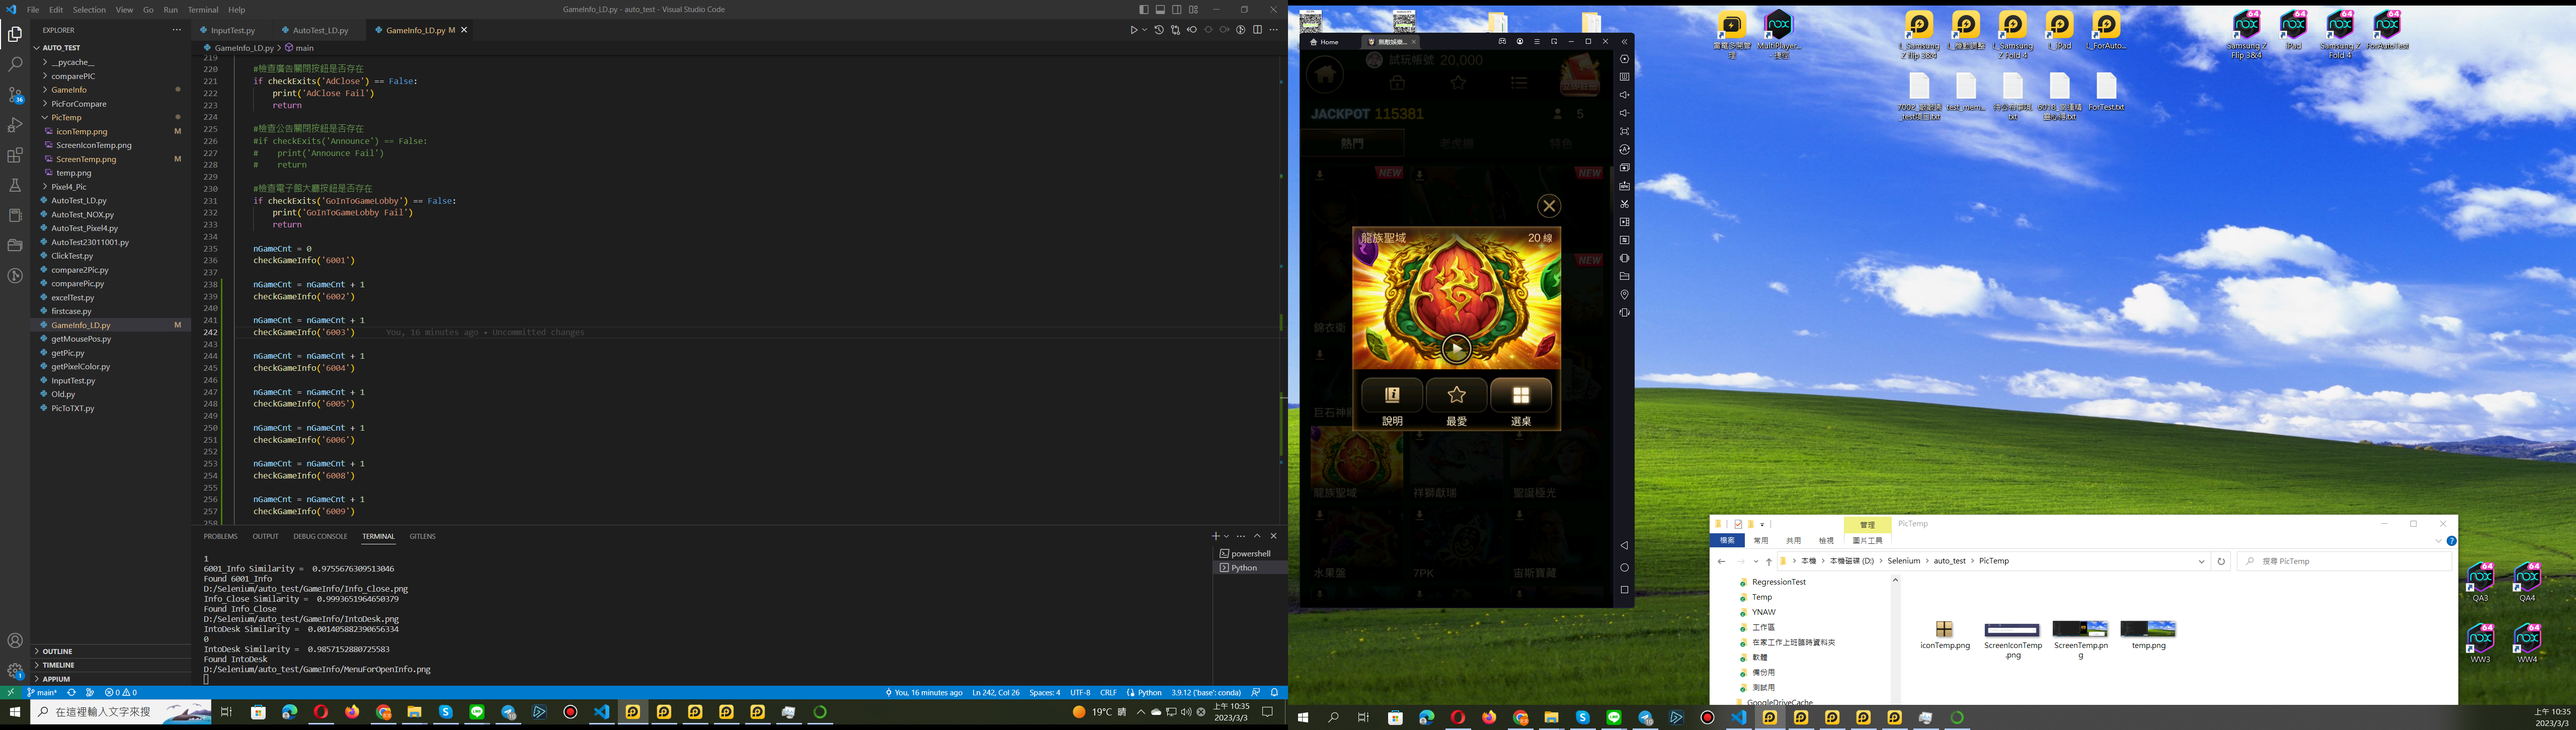
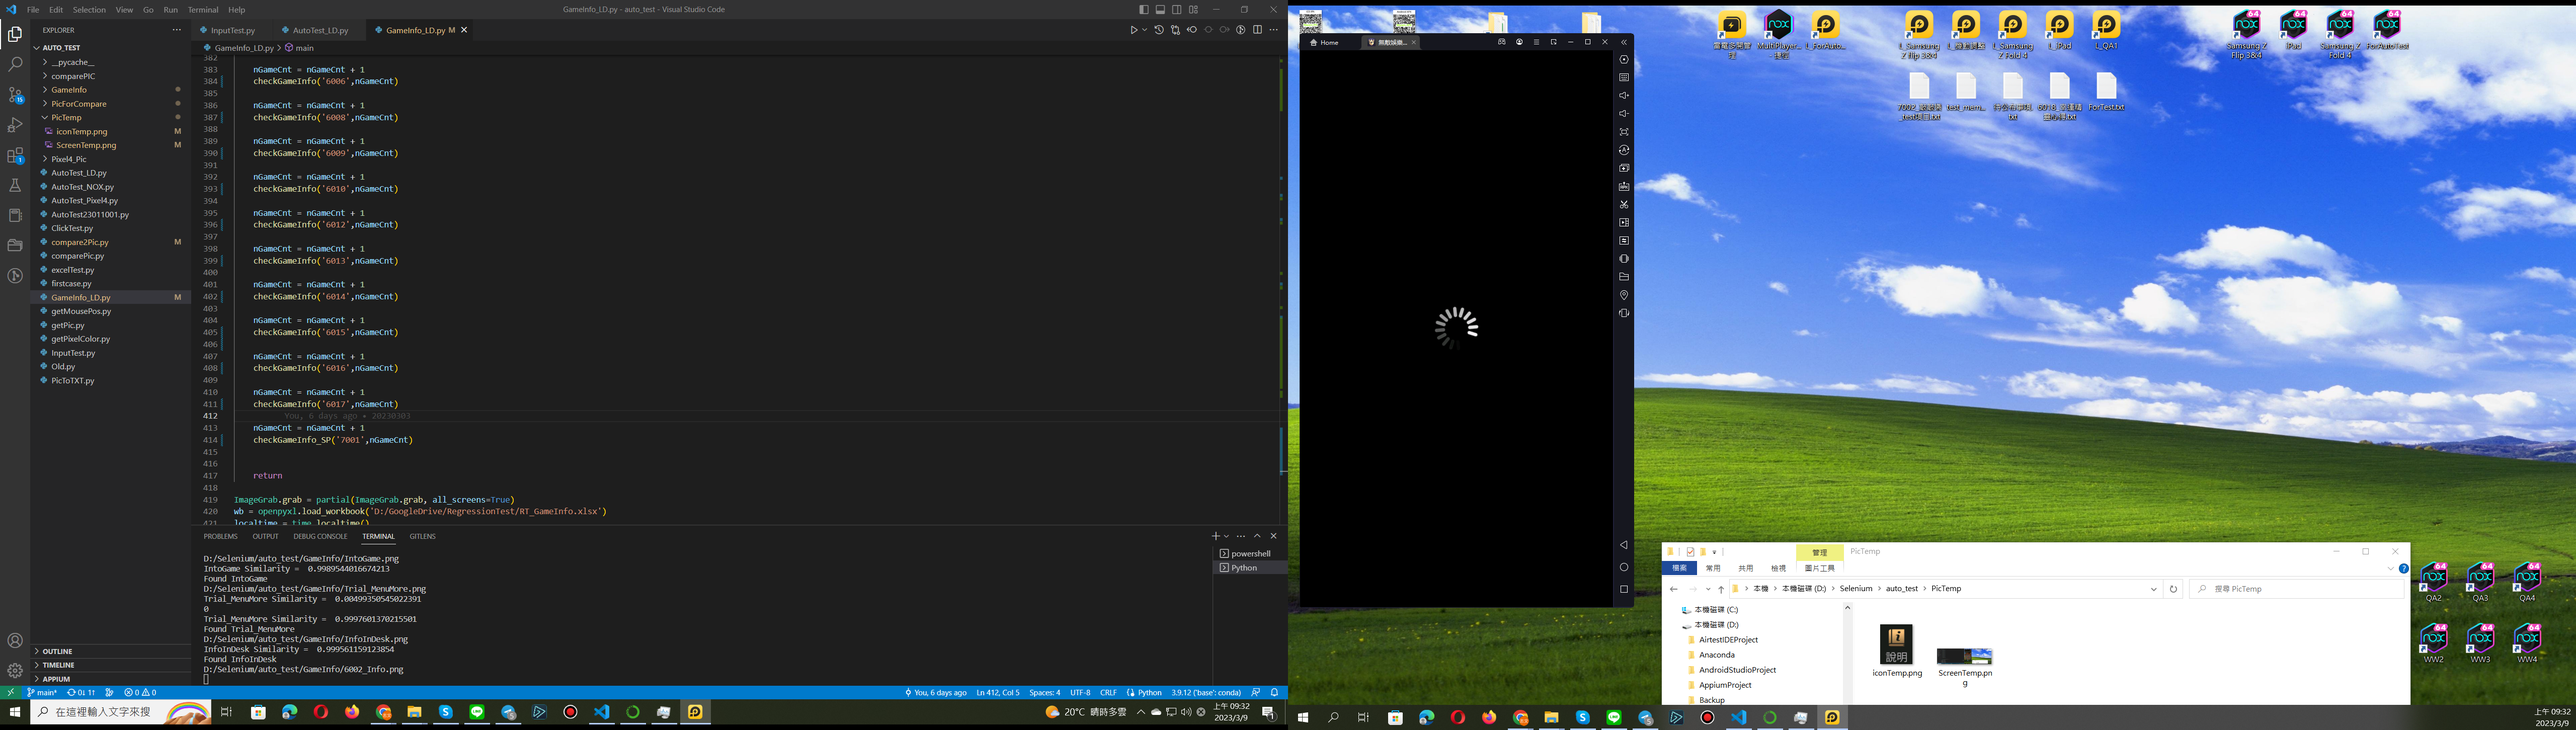
2023030901

diff --git a/GameInfo_LD.py b/GameInfo_LD.py
@@ -3,6 +3,7 @@ import pyscreenshot as ImageGrab
 import time
 from PIL import ImageGrab
 from functools import partial
+from PIL import Image
 
 import openpyxl
 from openpyxl.styles import Font, PatternFill       # 載入 Font 和 PatternFill 模組
@@ -11,7 +12,47 @@ import datetime
 import cv2
 import numpy as np
 from matplotlib import pyplot as plt
+import imagehash
+nGameCnt = 0
 
+def checkInfo(PicName, Times = 15):
+    nCheckTimes = 0
+    iconAppCheck = False
+    PicNamePath = 'D:/Selenium/auto_test/GameInfo/' + PicName + '.png'
+    imgIcon = cv2.imread(PicNamePath)
+    print(PicNamePath)
+    iconW = imgIcon.shape[1]
+    iconH = imgIcon.shape[0]
+
+    while iconAppCheck == False:
+        screen = pyautogui.screenshot()
+        screen.save("D:/Selenium/auto_test/PicTemp/ScreenTemp.png")
+        screen = cv2.imread("D:/Selenium/auto_test/PicTemp/ScreenTemp.png")
+        res = cv2.matchTemplate(screen,imgIcon,1)
+        min_val, max_val, min_loc, max_loc = cv2.minMaxLoc(res)
+        #print(min_val, max_val, min_loc, max_loc)
+        top_left = min_loc
+        #print(top_left)
+
+        bottom_right = (top_left[0] + iconW, top_left[1] + iconH)
+        imgscreenIcon = ImageGrab.grab(bbox=(top_left[0], top_left[1], bottom_right[0], bottom_right[1]))
+        #存檔確認比對圖案是否正確,此問題待解，希望可以不要再存檔重新讀取
+        PicIconTempName = "D:/Selenium/auto_test/PicTemp/iconTemp.png"
+        imgscreenIcon.save(PicIconTempName)
+
+        hash1 = imagehash.average_hash(Image.open(PicNamePath))
+        hash2 = imagehash.average_hash(Image.open(PicIconTempName))
+
+        if hash1 == hash2:
+            iconAppCheck = True
+        else:
+            print(nCheckTimes)
+            nCheckTimes = nCheckTimes + 1
+            time.sleep(1)
+            if nCheckTimes >= Times:
+                print('compare over times ' + PicName)
+                return False
+    return True
 
 def checkExits(PicName,bClickIconFound = True, Times = 15, findGameIcon = False):
     nCheckTimes = 0
@@ -78,7 +119,7 @@ def checkExits(PicName,bClickIconFound = True, Times = 15, findGameIcon = False)
                 return False
     return True
 
-def checkGameInfo(GameName):
+def checkGameInfo(GameName,WritePos):
     #檢查是否到遊戲館大廳
     if checkExits('Trial_MenuMore',False) == False:
         print('Trial_MenuMore Fail')
@@ -94,8 +135,12 @@ def checkGameInfo(GameName):
 
     #檢查說明頁面是否正確
     InfoGameName = GameName + '_Info'
-    if checkExits(InfoGameName,False) == False:
+    if checkInfo(InfoGameName,10) == False:
+        sheet.cell(WritePos + 2,2).value = "X"
         print(InfoGameName + ' Fail')
+    else:
+        sheet.cell(WritePos + 2,2).value = "OK"
+        print("Found Info")
 
     #檢查進入關閉說明按鈕是否存在
     if checkExits('Info_Close') == False:
@@ -114,8 +159,12 @@ def checkGameInfo(GameName):
         print('InfoInDesk Fail')
 
     #檢查說明頁面是否正確
-    if checkExits(InfoGameName,False) == False:
+    if checkInfo(InfoGameName,10) == False:
+        sheet.cell(WritePos + 2,3).value = "X"
         print(InfoGameName + ' Fail')
+    else:
+        sheet.cell(WritePos + 2,3).value = "OK"
+        print("Found Info")
 
     #檢查進入關閉說明按鈕是否存在
     if checkExits('Info_Close') == False:
@@ -164,6 +213,7 @@ def checkGameInfo(GameName):
         pyautogui.mouseUp(2850,413)
         LoopNum = LoopNum + 1
 
+    time.sleep(2)
     #檢查進入開啟選單按鈕是否存在
     if checkExits('Trial_MenuMore') == False:
         print('Trial_MenuMore Fail')
@@ -173,8 +223,12 @@ def checkGameInfo(GameName):
         print('InfoInDesk Fail')
 
     #檢查說明頁面是否正確
-    if checkExits(InfoGameName,False) == False:
+    if checkInfo(InfoGameName,10) == False:
+        sheet.cell(WritePos + 2,4).value = "X"
         print(InfoGameName + ' Fail')
+    else:
+        sheet.cell(WritePos + 2,4).value = "OK"
+        print("Found Info")
 
     #檢查進入關閉說明按鈕是否存在
     if checkExits('Info_Close') == False:
@@ -192,6 +246,8 @@ def checkGameInfo(GameName):
     if checkExits('BackToUpLevel') == False:
         print('BackToUpLevel Fail')
 
+    sheet.cell(WritePos + 2,1).value = GameName
+    wb.save("D:/GoogleDrive/RegressionTest/RT_GameInfo.xlsx")
 
 
     #檢查是否到遊戲館大廳
@@ -200,8 +256,85 @@ def checkGameInfo(GameName):
 
 
     return True
+
+
+def checkGameInfo_SP(GameName,WritePos):
+    #檢查是否到遊戲館大廳
+    if checkExits('Trial_MenuMore',False) == False:
+        print('Trial_MenuMore Fail')
     
+    time.sleep(1)
+    #檢查 game Icon是否存在
+    if checkExits(GameName,True,20,True) == False:
+        print(GameName + ' check Fail')
+
+    #檢查進入說明按鈕是否存在
+    if checkExits('InfoBook') == False:
+        print('InfoBook Fail')
+
+    #檢查說明頁面是否正確
+    InfoGameName = GameName + '_Info'
+    if checkInfo(InfoGameName,10) == False:
+        sheet.cell(WritePos + 2,2).value = "X"
+        print(InfoGameName + ' Fail')
+    else:
+        sheet.cell(WritePos + 2,2).value = "OK"
+        print("Found Info")
+
+    #檢查進入關閉說明按鈕是否存在
+    if checkExits('Info_Close') == False:
+        print('Info_Close Fail')
+
+    #檢查進入遊戲按鈕是否存在
+    if checkExits('Into7001') == False:
+        print('Into7001 Fail')
+
+    sheet.cell(WritePos + 2,3).value = "Other"
+
+    #很奇怪，會判斷錯誤，只好先sleep 5 秒
+    time.sleep(5)
+
+    #檢查進入是否進入遊戲
+    if checkExits('checkInGame',False) == False:
+        print('checkInGame Fail')
+
+    #檢查進入開啟選單按鈕是否存在
+    if checkExits('Trial_MenuMore') == False:
+        print('Trial_MenuMore Fail')
+
+    #檢查進入說明按鈕是否存在
+    if checkExits('InfoInDesk') == False:
+        print('InfoInDesk Fail')
+
+    #檢查說明頁面是否正確
+    if checkInfo(InfoGameName,10) == False:
+        sheet.cell(WritePos + 2,4).value = "X"
+        print(InfoGameName + ' Fail')
+    else:
+        sheet.cell(WritePos + 2,4).value = "OK"
+        print("Found Info")
+
+    #檢查進入關閉說明按鈕是否存在
+    if checkExits('Info_Close') == False:
+        print('Info_Close Fail')
+
+    #檢查進入上一頁按鈕是否存在
+    if checkExits('BackToUpLevel') == False:
+        print('BackToUpLevel Fail')
+
+    sheet.cell(WritePos + 2,1).value = GameName
+    wb.save("D:/GoogleDrive/RegressionTest/RT_GameInfo.xlsx")
+
+    return True
+   
 def main():
+
+    sheet.cell(1,1).value = "Game"
+    sheet.cell(1,2).value = "Lobby"
+    sheet.cell(1,3).value = "Desk"
+    sheet.cell(1,4).value = "Game"
+
+    wb.save("D:/GoogleDrive/RegressionTest/RT_GameInfo.xlsx")
 
     #雷電 L_ForAutoTest
     pyautogui.moveTo(4191,46,0.5)
@@ -233,52 +366,52 @@ def main():
         return
 
     nGameCnt = 0
-    checkGameInfo('6001')
-
-    nGameCnt = nGameCnt + 1
-    checkGameInfo('6002')
-
-    nGameCnt = nGameCnt + 1
-    checkGameInfo('6003')
-
-    nGameCnt = nGameCnt + 1
-    checkGameInfo('6004')
-
-    nGameCnt = nGameCnt + 1
-    checkGameInfo('6005')
-
-    nGameCnt = nGameCnt + 1
-    checkGameInfo('6006')
-
-    nGameCnt = nGameCnt + 1
-    checkGameInfo('6008')
+    checkGameInfo('6001',nGameCnt)
     
     nGameCnt = nGameCnt + 1
-    checkGameInfo('6009')
+    checkGameInfo('6002',nGameCnt)
 
     nGameCnt = nGameCnt + 1
-    checkGameInfo('6010')
+    checkGameInfo('6003',nGameCnt)
+
+    nGameCnt = nGameCnt + 1
+    checkGameInfo('6004',nGameCnt)
+
+    nGameCnt = nGameCnt + 1
+    checkGameInfo('6005',nGameCnt)
+
+    nGameCnt = nGameCnt + 1
+    checkGameInfo('6006',nGameCnt)
+
+    nGameCnt = nGameCnt + 1
+    checkGameInfo('6008',nGameCnt)
     
     nGameCnt = nGameCnt + 1
-    checkGameInfo('6012')
+    checkGameInfo('6009',nGameCnt)
 
     nGameCnt = nGameCnt + 1
-    checkGameInfo('6013')
-
-    nGameCnt = nGameCnt + 1
-    checkGameInfo('6014')
-
-    nGameCnt = nGameCnt + 1
-    checkGameInfo('6015')
-
-    nGameCnt = nGameCnt + 1
-    checkGameInfo('6016')
+    checkGameInfo('6010',nGameCnt)
     
     nGameCnt = nGameCnt + 1
-    checkGameInfo('6017')
+    checkGameInfo('6012',nGameCnt)
+
+    nGameCnt = nGameCnt + 1
+    checkGameInfo('6013',nGameCnt)
+
+    nGameCnt = nGameCnt + 1
+    checkGameInfo('6014',nGameCnt)
+
+    nGameCnt = nGameCnt + 1
+    checkGameInfo('6015',nGameCnt)
     
     nGameCnt = nGameCnt + 1
-    checkGameInfo('7001')
+    checkGameInfo('6016',nGameCnt)
+    
+    nGameCnt = nGameCnt + 1
+    checkGameInfo('6017',nGameCnt)
+    
+    nGameCnt = nGameCnt + 1
+    checkGameInfo_SP('7001',nGameCnt)
 
 
     return

diff --git a/compare2Pic.py b/compare2Pic.py
@@ -7,6 +7,12 @@ import imagehash
 img1 = Image.open('D:/Selenium/auto_test/GameInfo/6001_Info.png')
 img2 = Image.open('D:/Selenium/auto_test/GameInfo/6001_Info_.png')
 
+hash1 = imagehash.average_hash(img1)
+hash2 = imagehash.average_hash(img2)
+if hash1 == hash2:
+    print("hash is the same")
+else:
+    print(("hash is not the same"))
 #print('ssim = ', ssim)
 """
 base = cv.imread('D:/Selenium/auto_test/comparePIC/TableDetail.png')
